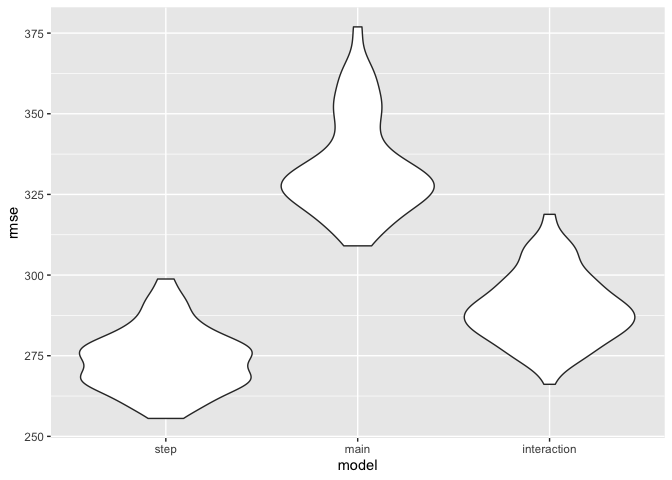
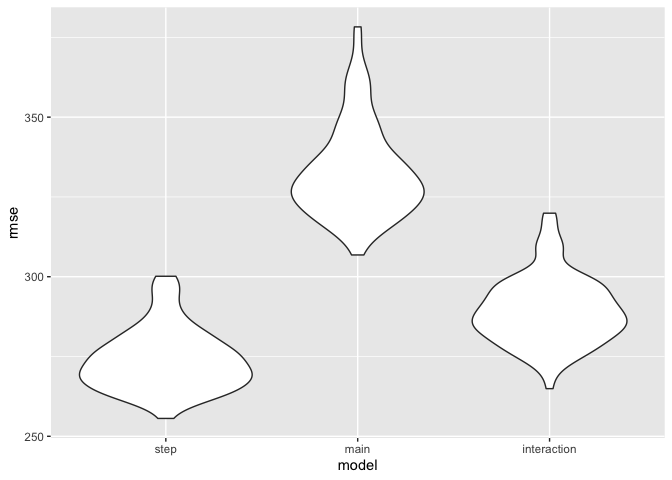
updated written explanations, set seed

diff --git a/p8105_hw6_si2426.md b/p8105_hw6_si2426.md
@@ -113,7 +113,9 @@ ratio while New York, NY has the lowest estimated odds ratio. In a
 majority of cities, the confidence interval of the odds ratio is between
 0 and 1, indicating that in many cities, homicides in which the victim
 is male are less likely to be solved than those with female victims
-(keeping all other variables constant).
+(keeping all other variables constant). It can be noted that cities with
+higher estimated odds ratios tend to have wider confidence intervals,
+such as Albuquerque, NM.
 
 ## Problem 3
 
@@ -145,12 +147,12 @@ factors, we will fit a model with all variables and perform a stepwise
 regression to find an appropriate model.
 
 ``` r
-model = lm(bwt ~., birthweight_df)
+full_model = lm(bwt ~., birthweight_df)
 
-step.model =  stepAIC(model, direction = "both", 
+step_model =  stepAIC(full_model, direction = "both", 
                       trace = FALSE)
 
-step.model %>% 
+step_model %>% 
   broom::tidy() %>% 
   dplyr::select(term, estimate, p.value) %>% 
   knitr::kable(digits = 3)
@@ -184,8 +186,8 @@ number of cigarettes smoked per day.
 
 ``` r
 birthweight_df %>% 
-  add_residuals(step.model) %>% 
-  add_predictions(step.model) %>%
+  add_residuals(step_model) %>% 
+  add_predictions(step_model) %>%
   ggplot(aes(x = pred, y = resid)) + 
   geom_point() +
   geom_hline(yintercept = 0, color = "red") +
@@ -198,7 +200,7 @@ birthweight_df %>%
 Looking at the residuals vs. fitted values plot, it appears that for
 higher values of birthweight, the residuals are evenly distributed
 around 0. However, for lower values of birthweight, the residuals tend
-to be distributed greater than 0.
+to be distributed greater than 0, indicating possible skew in the data.
 
 #### Comparing Models
 
@@ -209,6 +211,7 @@ effects) while the other model will look at head circumference, length,
 sex, and all interactions.
 
 ``` r
+set.seed(8167)
 comparing_models =
   crossv_mc(birthweight_df, 100) %>% 
   mutate(
